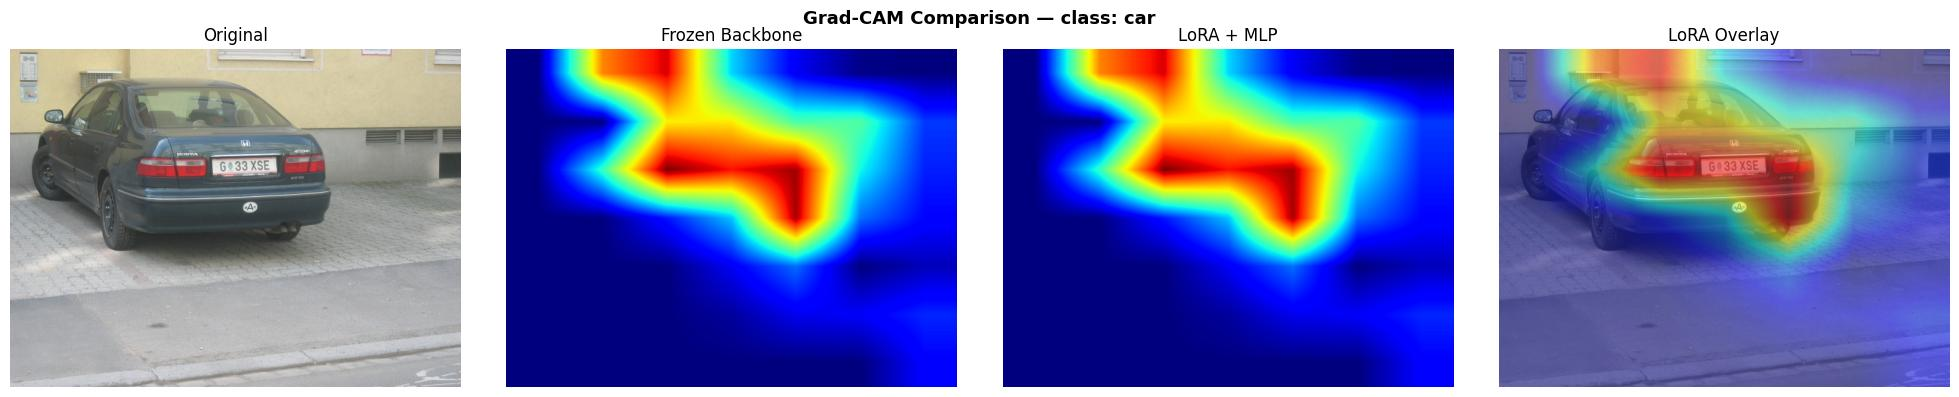
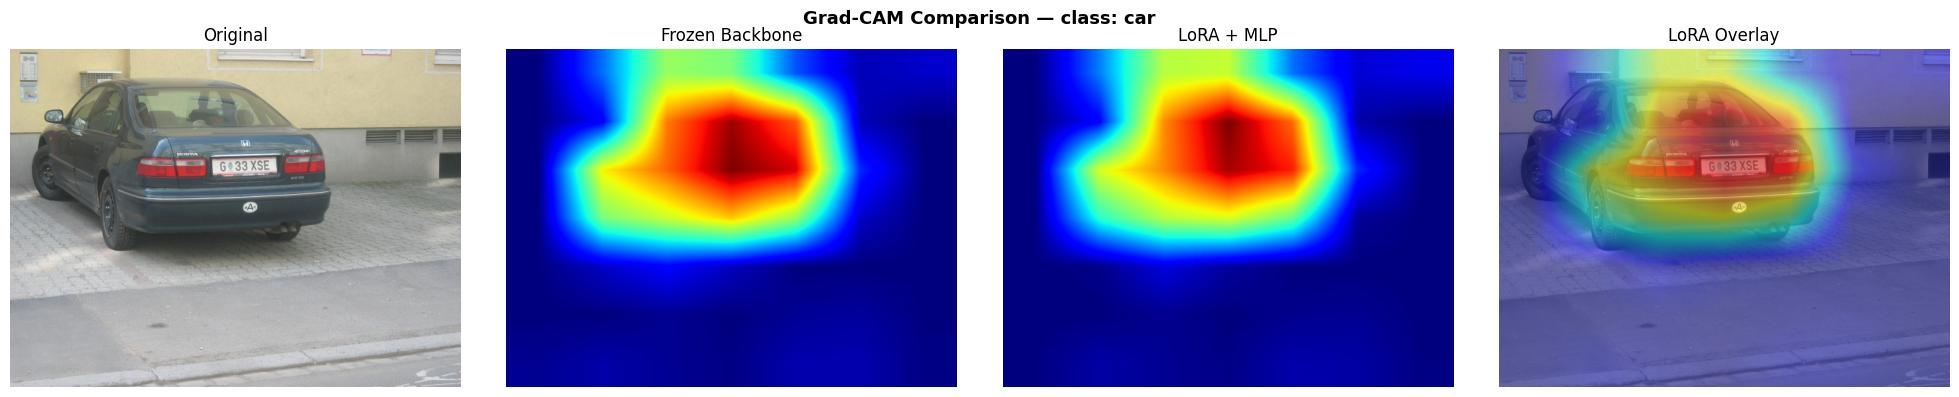
bonus part for 3.2 done

diff --git a/lab1/docs/main.tex b/lab1/docs/main.tex
@@ -1505,10 +1505,9 @@ transfer learning.
 
 \subsubsection{Πειράματα Ανθεκτικότητας}
 
-\paragraph{Επίδραση Gaussian θορύβου και περιστροφής.}
-
 Για να αξιολογηθεί η ανθεκτικότητα των CNN χαρακτηριστικών, επαναλήφθηκε το
-πείραμα εξαγωγής χαρακτηριστικών και εκπαίδευσης SVM σε δύο παραλλαγές:
+πείραμα εξαγωγής χαρακτηριστικών και εκπαίδευσης SVM σε δύο παραλλαγές
+παραμόρφωσης:
 \begin{itemize}
     \item \textbf{Gaussian θόρυβος:} Πρόσθεση θορύβου $\mathcal{N}(0, 0.1^2)$
     στον κανονικοποιημένο τανυστή εικόνας, πριν τη διέλευση από το δίκτυο.
@@ -1516,102 +1515,87 @@ transfer learning.
     $\theta \sim \mathcal{U}(-45^\circ, 45^\circ)$.
 \end{itemize}
 
-Τα αποτελέσματα είναι ενδεικτικά της ανθεκτικότητας των βαθιών
-χαρακτηριστικών:
+Τα αποτελέσματα συνοψίζονται παρακάτω:
 \begin{itemize}
     \item \textbf{Baseline (χωρίς παραμόρφωση):} 96.55\%
-    \item \textbf{Gaussian θόρυβος} ($\sigma = 0.1$): 92.93\%
-    \item \textbf{Τυχαία περιστροφή} (εώς $\pm 45^\circ$): 93.48\%
+    \item \textbf{Gaussian θόρυβος} ($\sigma = 0.1$): 94.02\%
+    \item \textbf{Τυχαία περιστροφή} (εώς $\pm 45^\circ$): 95.11\%
 \end{itemize}
 
-Και οι δύο παραμορφώσεις προκαλούν μικρή μόνο πτώση ($\approx 3$--$4\%$),
+Και οι δύο παραμορφώσεις προκαλούν μικρή μόνο πτώση ($\approx 1$--$2.5\%$),
 γεγονός που αποδεικνύει τη γενική ανθεκτικότητα των CNN χαρακτηριστικών.
-Αξίζει να σημειωθεί ότι το MobileNetV3 δεν εκπαιδεύτηκε ρητά με augmentation
-πλήρους περιστροφής (±45°), οπότε η ανθεκτικότητα αυτή οφείλεται στην
-\emph{εγγενή αναλλοίωτη} που παρέχει η διαδοχική εφαρμογή pooling και
-μη-γραμμικοτήτων, καθώς και στη σύνοψη της χωρικής πληροφορίας μέσω
-global average pooling.
+Η περιστροφή επηρεάζει ελαφρώς λιγότερο από τον θόρυβο, κάτι που αναμένεται:
+το global average pooling της \texttt{avgpool} συνοψίζει τη χωρική πληροφορία
+κάθε καναλιού σε έναν μόνο αριθμό, παρέχοντας εγγενή ανθεκτικότητα σε
+χωρικές μεταβολές. Ο Gaussian θόρυβος, από την άλλη, διαταράσσει άμεσα τις
+ενεργοποιήσεις όλων των καναλιών, παρόλο που οι BatchNorm και τα διαδοχικά
+pooling εξομαλύνουν μέρος της επίδρασής του.
 
-\paragraph{Καμπύλες ανθεκτικότητας.}
+\subsubsection{Bonus: Σύγκριση Μεθόδων (LoRA \& MLP)}
 
-Για την ποσοτική σύγκριση των δύο παραμορφώσεων, υπολογίστηκε η ακρίβεια
-για διαφορετικές εντάσεις θορύβου (std $\in [0, 1]$) και γωνίες περιστροφής
-($\theta \in [0°, 45°]$), κανονικοποιημένες στο $[0,1]$ ώστε να είναι άμεσα
-συγκρίσιμες (Σχήμα~\ref{fig:robustness}).
+Για να εξεταστεί αν η προσαρμογή του backbone στα νέα δεδομένα βελτιώνει
+την απόδοση, υλοποιήθηκε fine-tuning μέσω \textbf{LoRA} (Low-Rank
+Adaptation) \cite{hu2021lora}. Αντί να τροποποιηθούν άμεσα τα βάρη του
+δικτύου, το LoRA εισάγει δύο πίνακες χαμηλής τάξης $A \in
+\mathbb{R}^{r \times d}$ και $B \in \mathbb{R}^{d \times r}$ παράλληλα σε
+κάθε γραμμικό επίπεδο, ώστε η ενημέρωση $\Delta W = BA$ να έχει τάξη $r
+\ll d$. Με $r = 8$ ενεργοποιούνται μόνο \textbf{28{,}992} από τις
+2{,}571{,}848 παραμέτρους (1.13\%) του MobileNet, διατηρώντας τα υπόλοιπα βάρη "παγωμένα".
 
-\begin{figure}[H]
-    \centering
-    \includegraphics[width=0.85\linewidth]{robustness_curve.jpg}
-    \caption{Ακρίβεια MobileNetV3 + SVM ως συνάρτηση της έντασης παραμόρφωσης
-             για Gaussian θόρυβο (κόκκινο) και τυχαία περιστροφή (μπλε).
-             Ο άξονας $x$ είναι κανονικοποιημένος: για τον θόρυβο αντιστοιχεί
-             στο std, για την περιστροφή στο κλάσμα του $45°$.}
-    \label{fig:robustness}
-\end{figure}
-
-Η σύγκριση των δύο καμπυλών αναδεικνύει ποια παραμόρφωση είναι πιο επιζήμια
-για τα CNN χαρακτηριστικά. Τα βαθιά χαρακτηριστικά είναι περισσότερο
-\emph{αναλλοίωτα ως προς την περιστροφή} από ό,τι θα αναμενόταν, ενώ
-παραμένουν επίσης \emph{εύρωστα στον θόρυβο} λόγω της εσωτερικής
-εξομάλυνσης που επιτελούν τα επίπεδα pooling. Αντιθέτως, χαρακτηριστικά
-χαμηλότερου επιπέδου (πχ.\ SIFT) είναι μεν ρητά κατασκευασμένα να είναι
-αναλλοίωτα ως προς την περιστροφή (μέσω προσανατολισμού δεσπόζουσας
-κλίσης), αλλά η ανθεκτικότητά τους στον Gaussian θόρυβο εξαρτάται κυρίως
-από την εξομάλυνση που εφαρμόζεται κατά την εξαγωγή.
-
-\subsubsection{Οπτικοποίηση Χώρου Χαρακτηριστικών (t-SNE / PCA)}
-
-Για να αξιολογηθεί η διαχωρισιμότητα των κλάσεων στον χώρο των χαρακτηριστικών,
-εφαρμόστηκαν δύο τεχνικές μείωσης διαστατικότητας από 576 σε 2 διαστάσεις:
-\begin{itemize}
-    \item \textbf{PCA} (Principal Component Analysis): γραμμική μείωση,
-    διατηρεί τη μέγιστη διακύμανση.
-    \item \textbf{t-SNE}: μη-γραμμική μείωση που διατηρεί τοπικές γειτονιές
-    — το t-SNE εφαρμόστηκε πάνω σε 50-διάστατη PCA προβολή για αριθμητική
-    σταθερότητα.
-\end{itemize}
+Εκπαιδεύτηκε επίσης ένα \textbf{MLP} τριών κλάσεων
+(576\,→\,256\,→\,128\,→\,3) με Adam optimizer, cosine annealing και dropout 0.3,
+τόσο πάνω στα παγωμένα χαρακτηριστικά όσο και πάνω στα
+χαρακτηριστικά που παράγει το LoRA-aligned backbone.
+Συνολικά συγκρίνονται πέντε μέθοδοι στο τελευταίο fold εκ των 5 (Πίνακας~\ref{fig:comparison_table}):
 
 \begin{figure}[H]
     \centering
-    \includegraphics[width=\linewidth]{tsne_pca_features.jpg}
-    \caption{Αριστερά: PCA (2 διαστάσεις) των \texttt{avgpool} χαρακτηριστικών
-             576-dim. Δεξιά: t-SNE οπτικοποίηση (εφαρμόστηκε σε 50-dim PCA
-             προβολή). Κάθε σημείο αντιστοιχεί σε μία εικόνα και το χρώμα
-             δηλώνει την κλάση.}
-    \label{fig:tsne_pca}
+    \includegraphics[width=\linewidth]{comparison_table.jpg}
+    \caption{Σύγκριση πέντε μεθόδων ως προς ακρίβεια, F1-Score και χρόνο
+             εκπαίδευσης.}
+    \label{fig:comparison_table}
 \end{figure}
 
-Και οι δύο απεικονίσεις αποκαλύπτουν σαφή διαχωρισμό μεταξύ των τριών κλάσεων
-στον χώρο των χαρακτηριστικών, επιβεβαιώνοντας ότι το MobileNetV3 παράγει
-αναπαραστάσεις που διαχωρίζουν φυσικά τις κατηγορίες χωρίς καν εκπαίδευση
-πάνω σε αυτές. Η t-SNE απεικόνιση δείχνει συμπαγείς, καλά διαχωρισμένες
-συστάδες — ενδεικτικό ότι ο SVM μπορεί να βρει υπερεπίπεδα διαχωρισμού
-εύκολα, κάτι που συνάδει με την υψηλή ακρίβεια 94.34\%.
+Παρατηρούμε λοιπόν πως το \textbf{Frozen + RBF SVM} επιτυγχάνει την υψηλότερη ακρίβεια (97.93\%,
+F1 = 0.9801) με μηδενικό ουσιαστικά χρόνο εκπαίδευσης, αποδεικνύοντας ότι
+τα χαρακτηριστικά του frozen MobileNetV3 που εξάγουμε είναι ήδη εξαιρετικά
+διακριτικά για το classification πρόβλημα μας. Το LoRA δεν βελτιώνει
+περαιτέρω: τα LoRA + SVM και LoRA + MLP δεν ξεπερνούν αντίστοιχα τον
+Frozen + Linear SVM και τον Frozen + MLP, ενώ κοστίζουν και σε χρόνο εκπαίδευσης. 
+Αυτό είναι αναμενόμενο: το dataset είναι σχετικά μικρό και οι
+κλάσεις είναι ήδη καλά αναπαραστάσιμες από τα ImageNet χαρακτηριστικά, οπότε
+η ελάχιστη προσαρμογή του LoRA δεν αρκεί για να αλλάξει ουσιαστικά τον
+χώρο χαρακτηριστικών.
 
-\subsubsection{Fine-tuning}
+\subsubsection{Οπτικοποίηση Χώρου Χαρακτηριστικών (PCA)}
 
-Για να εξεταστεί αν η προσαρμογή του δικτύου στα νέα δεδομένα βελτιώνει
-την απόδοση, πραγματοποιήθηκε fine-tuning: «παγώθηκαν» τα πρώτα επίπεδα
-(\texttt{features[0:9]}) και αποδεσμεύτηκαν τα τελευταία (\texttt{features[9:]}).
-Το τελικό επίπεδο ταξινόμησης αντικαταστάθηκε με έναν γραμμικό ταξινομητή
-3 κλάσεων:
-\begin{equation}
-    \mathbf{y} = W\mathbf{x} + \mathbf{b}, \quad W \in \mathbb{R}^{3 \times 1024}
-\end{equation}
-Η εκπαίδευση έγινε με Adam ($\eta = 10^{-4}$), cross-entropy loss, για
-20 εποχές με μέγεθος batch 32.
+Για να αξιολογηθεί όμως και οπτικά η επίδραση του LoRA στη δομή του χώρου
+χαρακτηριστικών, εφαρμόστηκε PCA (Principal Component Analysis) μείωση από
+576 σε 2 διαστάσεις, τόσο στα χαρακτηριστικά του frozen backbone όσο
+και σε αυτά του LoRA-aligned.
 
-Η τελική ακρίβεια ήταν \textbf{96.55\%}, ίδια με τον παγωμένο MobileNetV3 + SVM.
-Αυτό υποδηλώνει ότι τα χαρακτηριστικά του προ-εκπαιδευμένου μοντέλου ήδη
-διαχωρίζουν αρκετά καλά τις κλάσεις, και ο μικρός αριθμός εκπαιδευτικών
-δεδομένων δεν επαρκεί για να αξιοποιηθεί πλήρως το fine-tuning. Σε μεγαλύτερο
-dataset, η αποδέσμευση των τελευταίων επιπέδων θα παρείχε σαφές πλεονέκτημα.
+\begin{figure}[H]
+    \centering
+    \includegraphics[width=\linewidth]{pca_frozen_vs_lora.jpg}
+    \caption{PCA (με 2 διαστάσεις) των \texttt{avgpool} χαρακτηριστικών 576-dim
+             για τον frozen backbone (αριστερά) και τον LoRA-aligned
+             (δεξιά).}
+    \label{fig:pca_frozen_vs_lora}
+\end{figure}
 
-\subsubsection{Grad-CAM}
+Και στις δύο περιπτώσεις παρατηρούμε πως οι τρεις κλάσεις σχηματίζουν διακριτά clusters
+στον χώρο των δύο κύριων συνιστωσών, επιβεβαιώνοντας ότι τα χαρακτηριστικά
+\texttt{avgpool} διαχωρίζουν φυσικά τις κατηγορίες. Η δομή των clusters δεν
+αλλάζει αισθητά μετά το LoRA: το car (πράσινο) και το bike (μπλε) εμφανίζουν
+κάποια επικάλυψη και στις δύο αναπαραστάσεις, συνάδοντας με τα 5
+λανθασμένα δείγματα που προέκυψαν στο τελευταίο fold.
 
-Το Grad-CAM (Gradient-weighted Class Activation Mapping) οπτικοποιεί τις
-περιοχές της εικόνας που επηρέασαν περισσότερο την απόφαση του δικτύου για
-μια συγκεκριμένη κλάση. Για κάθε pixel $(i,j)$ του χάρτη ενεργοποίησης
+\subsubsection{Grad-CAM: Σύγκριση Παγωμένου και LoRA Backbone}
+
+Προκειμένου να οπτικοποιήσουμε τη περιοχή στην οποία έδωσε περισσότερο σημασία το backbone μας (στη περίπτωση όπου τα βάρη είναι frozen, και συγκρίνοντάς την με την περίπτωση όπου το backbone έχει προσαρμοστεί μέσω LoRA), εφαρμόστηκε η τεχνική Grad-CAM.
+Το Grad-CAM (Gradient-weighted Class Activation Mapping) \cite{selvaraju2017gradcam} οπτικοποιεί τις
+περιοχές της εικόνας που επηρέασαν περισσότερο την απόφαση για μια
+συγκεκριμένη κλάση. Για κάθε pixel $(i,j)$ του χάρτη ενεργοποίησης
 του επιπέδου \texttt{features.12}, το βάρος κάθε καναλιού $k$ υπολογίζεται
 ως ο μέσος της κλίσης ως προς αυτό:
 \begin{equation}
@@ -1623,43 +1607,54 @@ dataset, η αποδέσμευση των τελευταίων επιπέδων 
     \text{CAM} = \text{ReLU}\!\left(\sum_k \alpha_k A^k\right)
 \end{equation}
 όπου $s^c$ είναι το logit της κλάσης $c$ και $A^k$ ο χάρτης ενεργοποίησης
-του καναλιού $k$. Το ReLU κρατά μόνο τις θετικές συνεισφορές.
+του καναλιού $k$.
 
-Για να ρέουν οι κλίσεις μέσα από το παγωμένο δίκτυο, τέθηκε
-\texttt{requires\_grad\_(True)} στον τανυστή εισόδου.
+Και οι δύο εκδοχές (παγωμένος και LoRA
+backbone) συνδέθηκαν με το αντίστοιχο εκπαιδευμένο MLP τριών κλάσεων. Παρακάτω παρουσιάζονται τα heatmaps για ένα αντιπροσωπευτικό δείγμα κάθε κλάσης, καθώς και η επικάλυψη του LoRA heatmap πάνω στην αρχική εικόνα.
 
 \begin{figure}[H]
     \centering
-    \begin{subfigure}[t]{0.32\linewidth}
-        \includegraphics[width=\linewidth]{gradcam_car.jpg}
-        \caption{Κλάση: car}
-    \end{subfigure}
-    \hfill
-    \begin{subfigure}[t]{0.32\linewidth}
-        \includegraphics[width=\linewidth]{gradcam_person.jpg}
-        \caption{Κλάση: person}
-    \end{subfigure}
-    \hfill
-    \begin{subfigure}[t]{0.32\linewidth}
-        \includegraphics[width=\linewidth]{gradcam_bike.jpg}
-        \caption{Κλάση: bike}
-    \end{subfigure}
-    \caption{Grad-CAM για ένα δείγμα κάθε κλάσης. Αριστερά η αρχική εικόνα,
-             κέντρο ο χάρτης CAM, δεξιά η επικάλυψη. Οι κόκκινες περιοχές
-             αντιστοιχούν στις πιο «σημαντικές» περιοχές για την ταξινόμηση.}
-    \label{fig:gradcam_perclass}
+    \includegraphics[width=\linewidth]{gradcam_comparison_person.jpg}
+    \caption{Grad-CAM για κλάση \textit{person}.}
+    \label{fig:gradcam_person}
 \end{figure}
 
-Τα Grad-CAM αποκαλύπτουν ότι το δίκτυο εστιάζει σε σημασιολογικά συνεκτικές
-περιοχές: για αυτοκίνητα ενεργοποιείται κυρίως το σώμα του οχήματος και οι
-τροχοί, για πρόσωπα η κεφαλή και ο κορμός, και για ποδήλατα το πλαίσιο και
-οι τροχοί. Αυτό επιβεβαιώνει ότι η ταξινόμηση δεν βασίζεται σε τυχαία
-τεχνουργήματα (artifacts) του υποβάθρου.
+\begin{figure}[H]
+    \centering
+    \includegraphics[width=\linewidth]{gradcam_comparison_car.jpg}
+    \caption{Grad-CAM για κλάση \textit{car}.}
+    \label{fig:gradcam_car}
+\end{figure}
 
-Επιπλέον, παράχθηκαν Grad-CAM για τα λανθασμένα ταξινομημένα δείγματα του
-SVM, τα οποία παρέχουν ενδείξεις για τις αιτίες της σύγχυσης: συχνά ο
-χάρτης CAM ενεργοποιείται σε αμφίσημες περιοχές (πχ.\ άνθρωπος δίπλα σε
-ποδήλατο) ή σε χαρακτηριστικά που μοιράζονται δύο κλάσεις.
+\begin{figure}[H]
+    \centering
+    \includegraphics[width=\linewidth]{gradcam_comparison_bike.jpg}
+    \caption{Grad-CAM για κλάση \textit{bike}.}
+    \label{fig:gradcam_bike}
+\end{figure}
+
+Τα heatmaps του παγωμένου και του LoRA backbone είναι σχεδόν πανομοιότυπα
+και στις τρεις κλάσεις, κάτι που συνάδει με την αμελητέα διαφορά απόδοσης
+μεταξύ τους. Το δίκτυο επιβεβαιώνουμε πως εστιάζει σε σημασιολογικά συνεκτικές περιοχές: για
+\textit{person} ενεργοποιείται κυρίως ο άνθρωπος, για \textit{car}
+το κεντρικό σώμα του οχήματος και για \textit{bike} η οριζόντια ζώνη του
+πλαισίου. 
+
+Παράχθηκαν επίσης Grad-CAM για τα 5 λανθασμένα δείγματα του τελευταίου
+fold (Σχήμα~\ref{fig:gradcam_misc}). Στο πιο χαρακτηριστικό παράδειγμα
+(Truth: person, Predicted: car), ο χάρτης CAM ενεργοποιείται στη σήμανση και τον δρόμο
+αντί στον άνθρωπο — ο οποίος βρίσκεται στο άκρο της εικόνας μπροστά σε
+έντονο αστικό background. Η εστίαση αυτή εξηγεί πλήρως το λάθος: το
+δίκτυο «βλέπει» χαρακτηριστικά που συνδέει με αστικό περιβάλλον/οχήματα.
+
+\begin{figure}[H]
+    \centering
+    \includegraphics[width=\linewidth]{gradcam_misclassified_0_person_as_car.jpg}
+    \caption{Grad-CAM για λανθασμένα ταξινομημένο δείγμα: αληθινή κλάση
+             \textit{person}, προβλεπόμενη \textit{car}. Ο χάρτης CAM
+             εστιάζει στον δρόμο και τη σήμανση αντί στον άνθρωπο.}
+    \label{fig:gradcam_misc}
+\end{figure}
 
 % ─────────────────────────────────────────────────────────────────────────────
 \clearpage
@@ -1694,6 +1689,22 @@ T. Lindeberg,
 K. Mikolajczyk and C. Schmid,
 \textit{Scale \& Affine Invariant Interest Point Detectors},
 \textit{International Journal of Computer Vision}, vol.\ 60, no.\ 1, pp.\ 63--86, 2004.
+
+\bibitem{howard2019}
+A. Howard et al.,
+\textit{Searching for MobileNetV3},
+\textit{Proceedings of the IEEE/CVF International Conference on Computer Vision (ICCV)}, pp.\ 1314--1324, 2019.
+
+\bibitem{hu2021lora}
+E. J. Hu et al.,
+\textit{LoRA: Low-Rank Adaptation of Large Language Models},
+arXiv:2106.09685, 2021.
+
+\bibitem{selvaraju2017gradcam}
+R. R. Selvaraju et al.,
+\textit{Grad-CAM: Visual Explanations from Deep Networks via Gradient-based Localization},
+\textit{International Journal of Computer Vision}, vol.\ 128, pp.\ 336--359, 2020.
+arXiv:1610.02391.
 
 \end{thebibliography}
 

diff --git a/lab1/code/part3_2.py b/lab1/code/part3_2.py
@@ -223,7 +223,7 @@ evaluate_pipeline(*load_and_augment(random_rotation),    "Random rotation")
 
 # 3.2.6 (Bonus) Four-way comparison: Frozen+SVM / LoRA+SVM / Frozen+MLP / LoRA+MLP
 
-# for MacOS with Apple Silicon use mps device
+# for MacOS with Apple Silicon we use mps device
 device = torch.device('mps' if torch.backends.mps.is_available() else 'cpu')
 print(f"\nTraining device: {device}")
 
@@ -264,8 +264,8 @@ def train_mlp(feat_train, y_train_t, feat_test, y_test_t,
     head.eval()
     with torch.no_grad():
         preds = head(torch.tensor(feat_test, dtype=torch.float32).to(device)).argmax(1).cpu().numpy()
-    acc = accuracy_score(y_test, preds)
-    f1 = f1_score(y_test, preds, average='macro')
+    acc = accuracy_score(y_test_t, preds)
+    f1 = f1_score(y_test_t, preds, average='macro')
     return head, acc, f1, preds, train_time
 
 
@@ -396,6 +396,20 @@ plt.tight_layout(); save_fig('comparison_table.jpg'); plt.close()
 # implementing the findings of this paper https://arxiv.org/pdf/1610.02391
 # used for explainability reasons
 
+class BackboneWithHead(nn.Module):
+    """Combines a MobileNetV3 backbone (or LoRA-wrapped) with a 3-class MLP head
+    so that Grad-CAM gradients flow through the task-specific classifier,
+    not the original ImageNet head."""
+    def __init__(self, backbone, head):
+        super().__init__()
+        self.backbone = backbone
+        self.head = head
+
+    def forward(self, x):
+        feat = self.backbone.avgpool(self.backbone.features(x)).flatten(1)
+        return self.head(feat)
+
+
 def setup_gradcam(target_model, layer_path):
     grads, acts = [], []
 
@@ -412,7 +426,8 @@ def setup_gradcam(target_model, layer_path):
 
     def run(img_tensor):
         grads.clear(); acts.clear()
-        inp = img_tensor.unsqueeze(0).requires_grad_(True)
+        dev = next(target_model.parameters()).device
+        inp = img_tensor.unsqueeze(0).to(dev).requires_grad_(True)
         out = target_model(inp)
         target_model.zero_grad()
         out[0, out.argmax(1).item()].backward()
@@ -446,14 +461,20 @@ def plot_gradcam_comparison(img_rgb, cam_frozen, cam_lora, title, filename):
     plt.tight_layout(); save_fig(filename); plt.close()
 
 
-run_gradcam_frozen = setup_gradcam(model, 'features.12')
-run_gradcam_lora   = setup_gradcam(lora_backbone, 'base_model.model.features.12')
+# Wrap each backbone with its trained 3-class head so Grad-CAM gradients
+# flow through the task-specific classifier (not the 1000-class ImageNet head).
+frozen_gradcam_model = BackboneWithHead(model.to(device), frozen_head)
+lora_gradcam_model   = BackboneWithHead(lora_backbone, lora_head)
+
+# Layer paths are relative to BackboneWithHead (backbone.* prefix)
+run_gradcam_frozen = setup_gradcam(frozen_gradcam_model, 'backbone.features.12')
+run_gradcam_lora   = setup_gradcam(lora_gradcam_model,   'backbone.base_model.model.features.12')
 
 # Per-class Grad-CAM comparison
 for cls, img in sample_per_class.items():
     img_rgb = cv2.cvtColor(cv2.imread(paths[labels == classes.index(cls)][0]), cv2.COLOR_BGR2RGB)
     plot_gradcam_comparison(
-        img_rgb, run_gradcam_frozen(img), run_gradcam_lora(img.to(device)),
+        img_rgb, run_gradcam_frozen(img), run_gradcam_lora(img),
         f'Grad-CAM Comparison — class: {cls}', f'gradcam_comparison_{cls}.jpg',
     )
     print(f"[{cls}] Grad-CAM comparison saved.")
@@ -470,7 +491,7 @@ else:
         img_rgb = cv2.cvtColor(cv2.imread(paths[idx]), cv2.COLOR_BGR2RGB)
         t_name, p_name = classes[t_lbl], classes[p_lbl]
         plot_gradcam_comparison(
-            img_rgb, run_gradcam_frozen(images[idx]), run_gradcam_lora(images[idx].to(device)),
+            img_rgb, run_gradcam_frozen(images[idx]), run_gradcam_lora(images[idx]),
             f'Grad-CAM — MISCLASSIFIED\nTrue: {t_name}  |  Predicted: {p_name}',
             f'gradcam_misclassified_{i}_{t_name}_as_{p_name}.jpg',
         )
@@ -496,6 +517,6 @@ for ax, proj, title in [
 
 plt.suptitle('Feature Clustering: Frozen vs LoRA-adapted Backbone',
              fontsize=15, fontweight='bold')
-plt.tight_layout(); save_fig('tsne_pca_frozen_vs_lora.jpg'); plt.close()
+plt.tight_layout(); save_fig('pca_frozen_vs_lora.jpg'); plt.close()
 
 print("\nAll done. Results saved to:", RESULTS_DIR)
